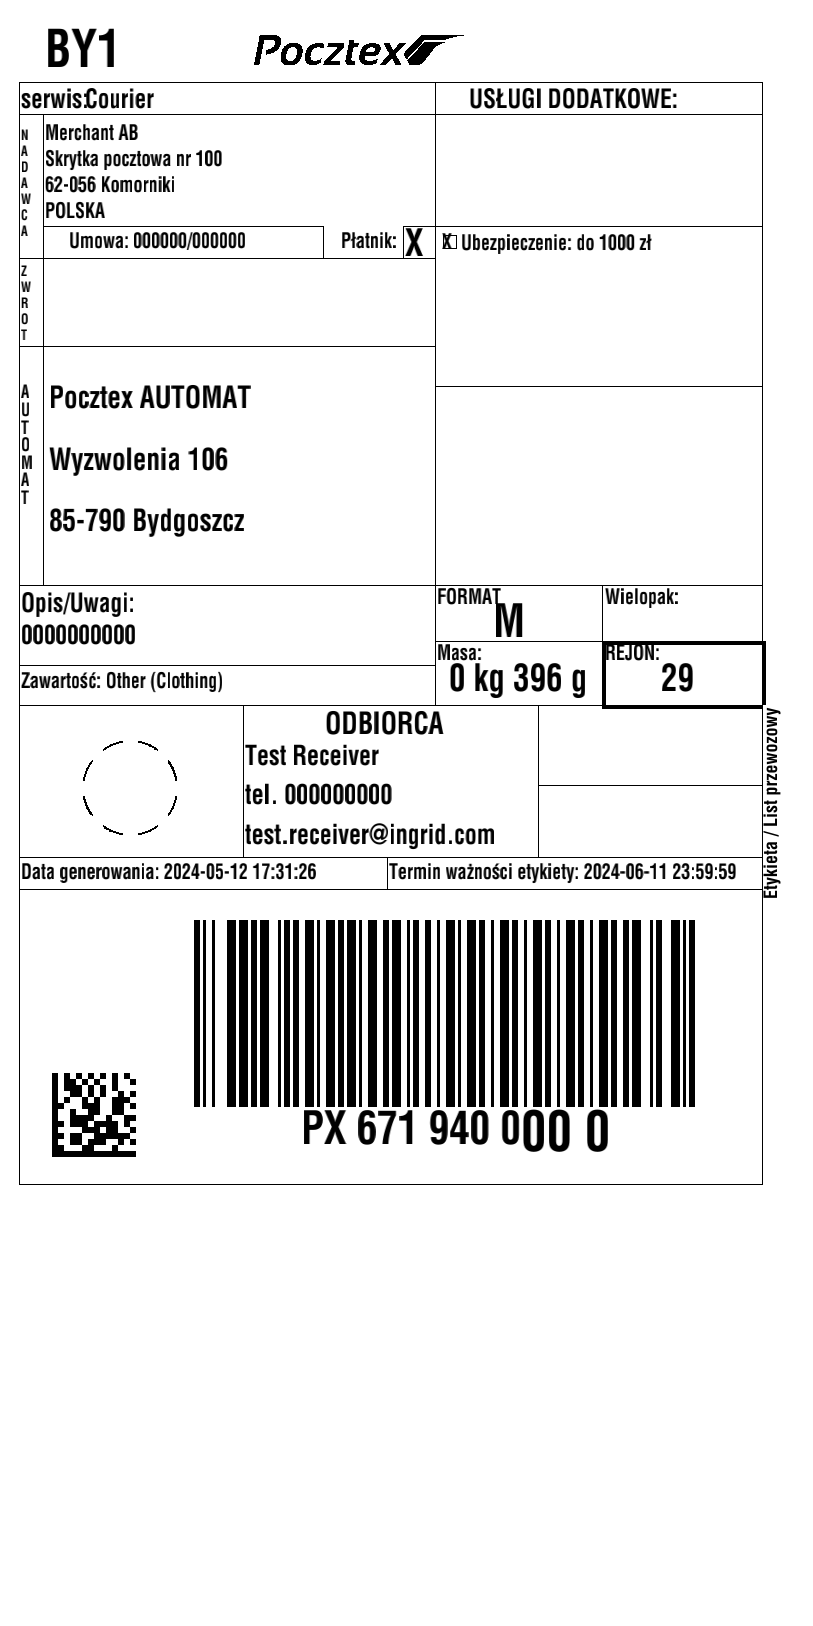
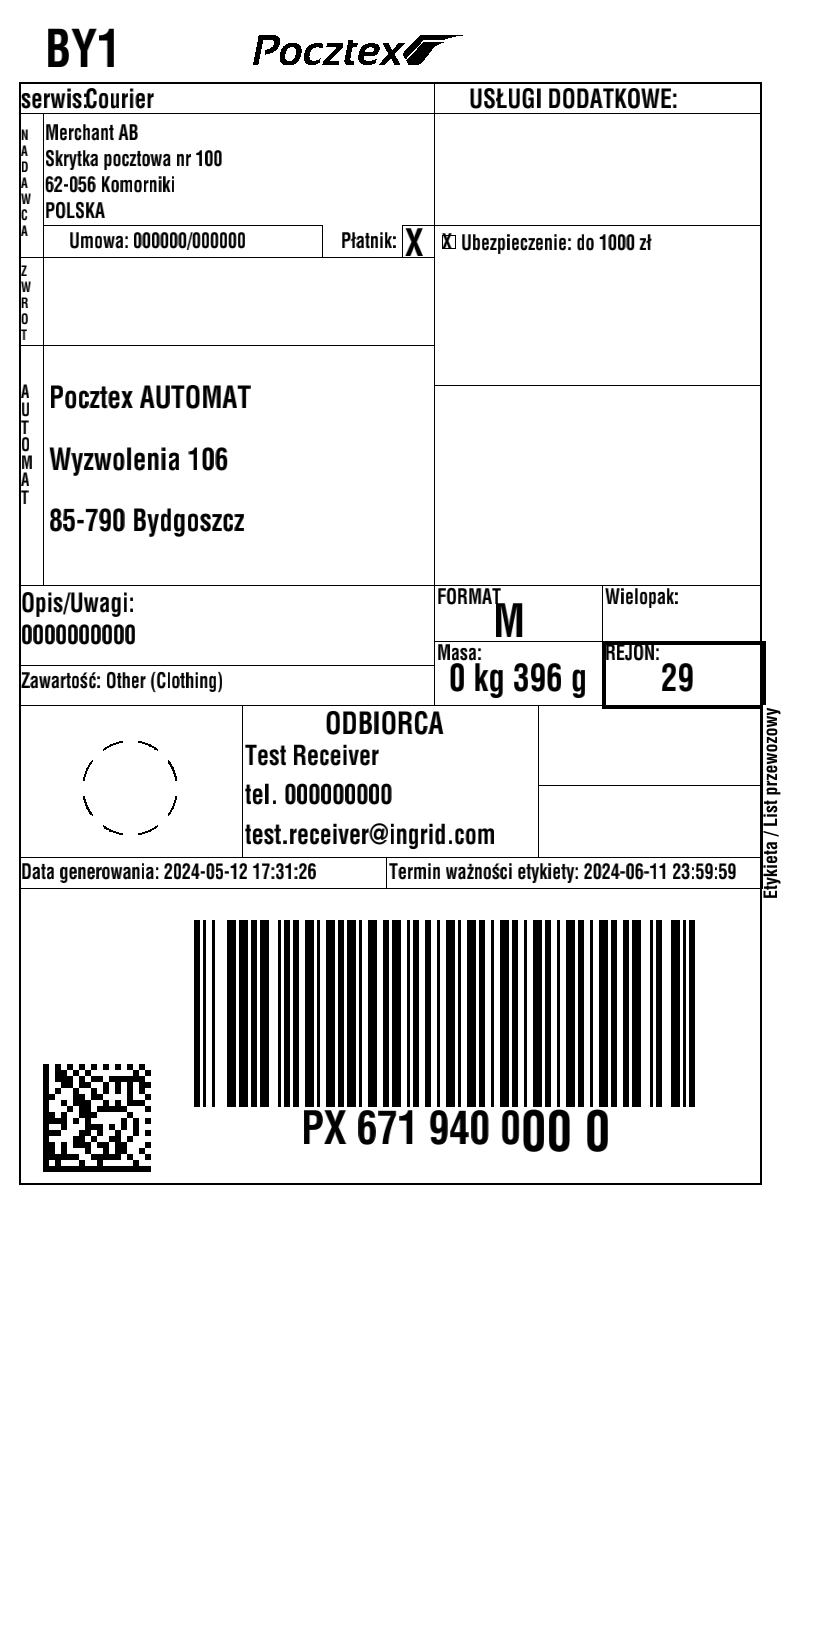
Fix datamatrix rendering

diff --git a/drawers/barcode_datamatrix.go b/drawers/barcode_datamatrix.go
@@ -5,7 +5,6 @@ import (
 
 	"github.com/fogleman/gg"
 	"github.com/ingridhq/zebrash/elements"
-	"github.com/ingridhq/zebrash/images"
 	"github.com/makiuchi-d/gozxing"
 	"github.com/makiuchi-d/gozxing/datamatrix"
 	"github.com/makiuchi-d/gozxing/datamatrix/encoder"
@@ -21,7 +20,14 @@ func NewBarcodeDatamatrixDrawer() *ElementDrawer {
 
 			enc := datamatrix.NewDataMatrixWriter()
 
-			hints := make(map[gozxing.EncodeHintType]interface{})
+			dims, err := gozxing.NewDimension(barcode.Columns, barcode.Rows)
+			if err != nil {
+				return fmt.Errorf("failed to create datamatrix dimensions: %w", err)
+			}
+
+			hints := map[gozxing.EncodeHintType]interface{}{
+				gozxing.EncodeHintType_MIN_SIZE: dims,
+			}
 
 			switch barcode.Ratio {
 			case elements.DatamatrixRatioSquare:
@@ -30,20 +36,18 @@ func NewBarcodeDatamatrixDrawer() *ElementDrawer {
 				hints[gozxing.EncodeHintType_DATA_MATRIX_SHAPE] = encoder.SymbolShapeHint_FORCE_RECTANGLE
 			}
 
-			img, err := enc.Encode(barcode.Data, gozxing.BarcodeFormat_DATA_MATRIX, barcode.Columns, barcode.Rows, hints)
+			ratio := max(barcode.Height, 1)
+
+			img, err := enc.Encode(barcode.Data, gozxing.BarcodeFormat_DATA_MATRIX, ratio*barcode.Columns, ratio*barcode.Rows, hints)
 			if err != nil {
 				return fmt.Errorf("failed to encode datamatrix barcode: %w", err)
 			}
 
-			ratio := float64(max(barcode.Height, 1))
-
-			scaledImg := images.NewScaled(img, ratio, ratio)
-
-			rotateImage(gCtx, scaledImg, barcode.Position, barcode.Orientation)
+			rotateImage(gCtx, img, barcode.Position, barcode.Orientation)
 
 			defer gCtx.Identity()
 
-			gCtx.DrawImage(scaledImg, barcode.Position.X, barcode.Position.Y)
+			gCtx.DrawImage(img, barcode.Position.X, barcode.Position.Y)
 
 			return nil
 		},

diff --git a/parsers/graphic_box.go b/parsers/graphic_box.go
@@ -1,7 +1,6 @@
 package parsers
 
 import (
-	"math"
 	"strconv"
 
 	"github.com/ingridhq/zebrash/elements"
@@ -26,19 +25,19 @@ func NewGraphicBoxParser() *CommandParser {
 
 			parts := splitCommand(command, code, 0)
 			if len(parts) > 0 {
-				if v, err := strconv.ParseFloat(parts[0], 32); err == nil && v > 0 {
-					result.Width = int(math.Ceil(v))
+				if v, err := toPositiveIntField(parts[0]); err == nil && v > 0 {
+					result.Width = v
 				}
 			}
 
 			if len(parts) > 1 {
-				if v, err := strconv.ParseFloat(parts[1], 32); err == nil && v > 0 {
-					result.Height = int(math.Ceil(v))
+				if v, err := toPositiveIntField(parts[1]); err == nil && v > 0 {
+					result.Height = v
 				}
 			}
 
 			if len(parts) > 2 {
-				if v, err := strconv.Atoi(parts[2]); err == nil && v > 0 {
+				if v, err := toPositiveIntField(parts[2]); err == nil && v > 0 {
 					result.BorderThickness = v
 				}
 			}

diff --git a/parsers/field_typeset.go b/parsers/field_typeset.go
@@ -1,9 +1,7 @@
 package parsers
 
 import (
-	"math"
 	"strconv"
-	"strings"
 
 	"github.com/ingridhq/zebrash/elements"
 	"github.com/ingridhq/zebrash/printers"
@@ -22,14 +20,14 @@ func NewFieldTypesetParser() *CommandParser {
 			parts := splitCommand(command, code, 0)
 
 			if len(parts) > 0 {
-				if v, err := strconv.ParseFloat(strings.Trim(parts[0], " "), 32); err == nil {
-					pos.X = int(math.Abs(math.Ceil(v)))
+				if v, err := toPositiveIntField(parts[0]); err == nil {
+					pos.X = v
 				}
 			}
 
 			if len(parts) > 1 {
-				if v, err := strconv.ParseFloat(strings.Trim(parts[1], " "), 32); err == nil {
-					pos.Y = int(math.Abs(math.Ceil(v)))
+				if v, err := toPositiveIntField(parts[1]); err == nil {
+					pos.Y = v
 				}
 			}
 

diff --git a/parsers/field_origin.go b/parsers/field_origin.go
@@ -1,9 +1,7 @@
 package parsers
 
 import (
-	"math"
 	"strconv"
-	"strings"
 
 	"github.com/ingridhq/zebrash/elements"
 	"github.com/ingridhq/zebrash/printers"
@@ -22,14 +20,14 @@ func NewFieldOriginParser() *CommandParser {
 			parts := splitCommand(command, code, 0)
 
 			if len(parts) > 0 {
-				if v, err := strconv.ParseFloat(strings.Trim(parts[0], " "), 32); err == nil {
-					pos.X = int(math.Abs(math.Ceil(v)))
+				if v, err := toPositiveIntField(parts[0]); err == nil {
+					pos.X = v
 				}
 			}
 
 			if len(parts) > 1 {
-				if v, err := strconv.ParseFloat(strings.Trim(parts[1], " "), 32); err == nil {
-					pos.Y = int(math.Abs(math.Ceil(v)))
+				if v, err := toPositiveIntField(parts[1]); err == nil {
+					pos.Y = v
 				}
 			}
 

diff --git a/parsers/command_parser.go b/parsers/command_parser.go
@@ -1,6 +1,8 @@
 package parsers
 
 import (
+	"math"
+	"strconv"
 	"strings"
 
 	"github.com/ingridhq/zebrash/elements"
@@ -71,4 +73,13 @@ func toFieldBarcodeMode(mode byte) elements.BarcodeMode {
 
 func toBoolField(value byte) bool {
 	return value == 'Y'
+}
+
+func toPositiveIntField(value string) (int, error) {
+	v, err := strconv.ParseFloat(strings.Trim(value, " "), 32)
+	if err != nil {
+		return 0, err
+	}
+
+	return int(math.Abs(math.Round(v))), nil
 }
